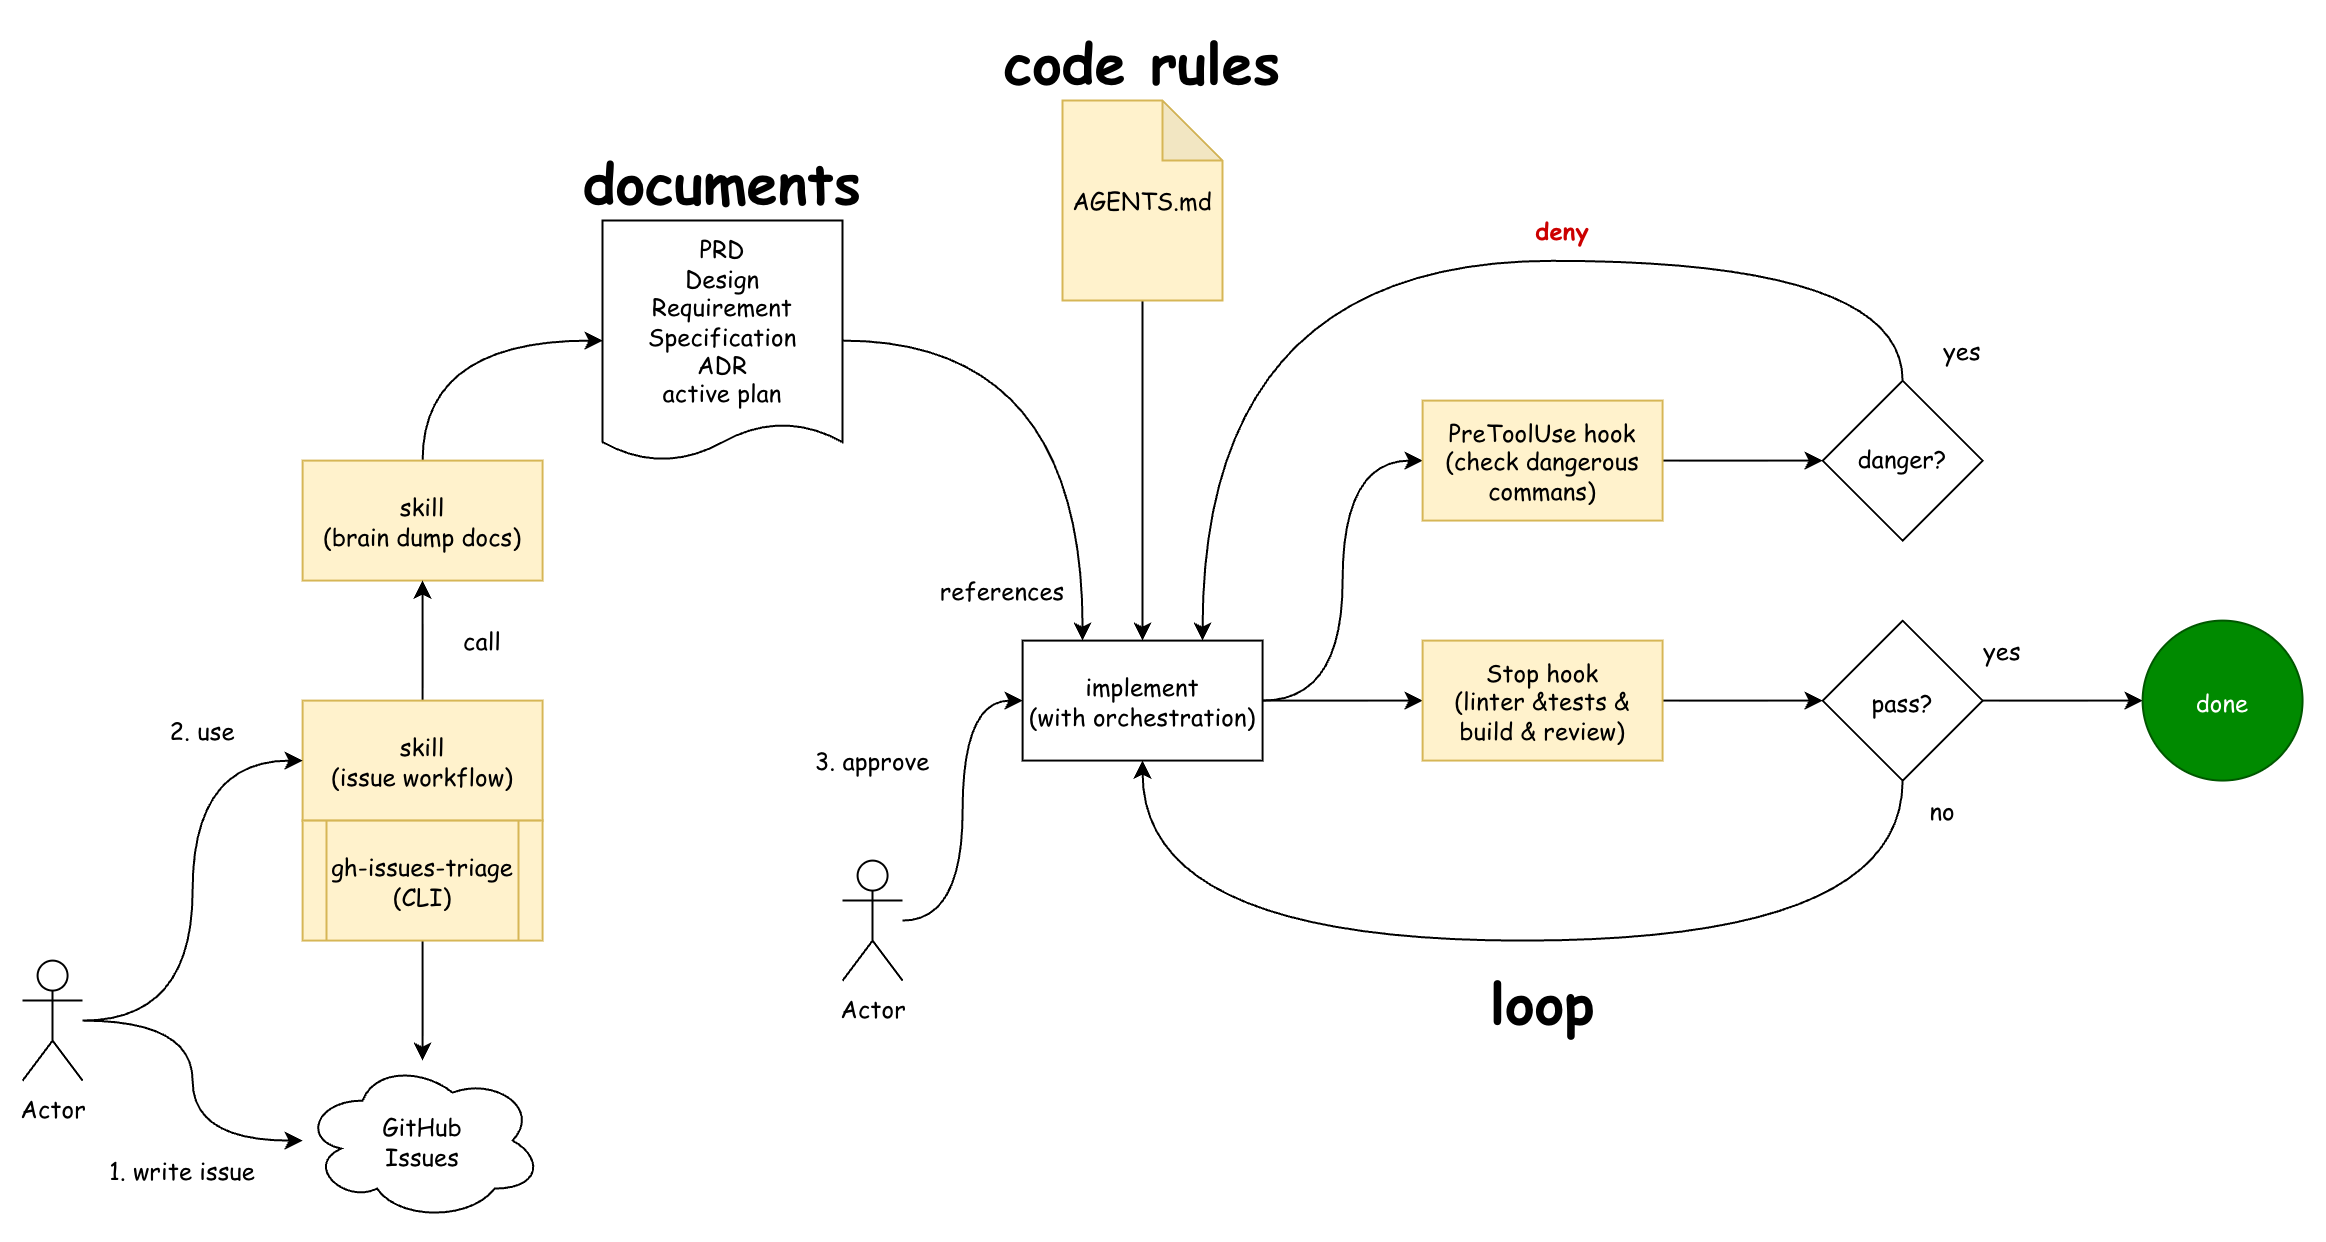
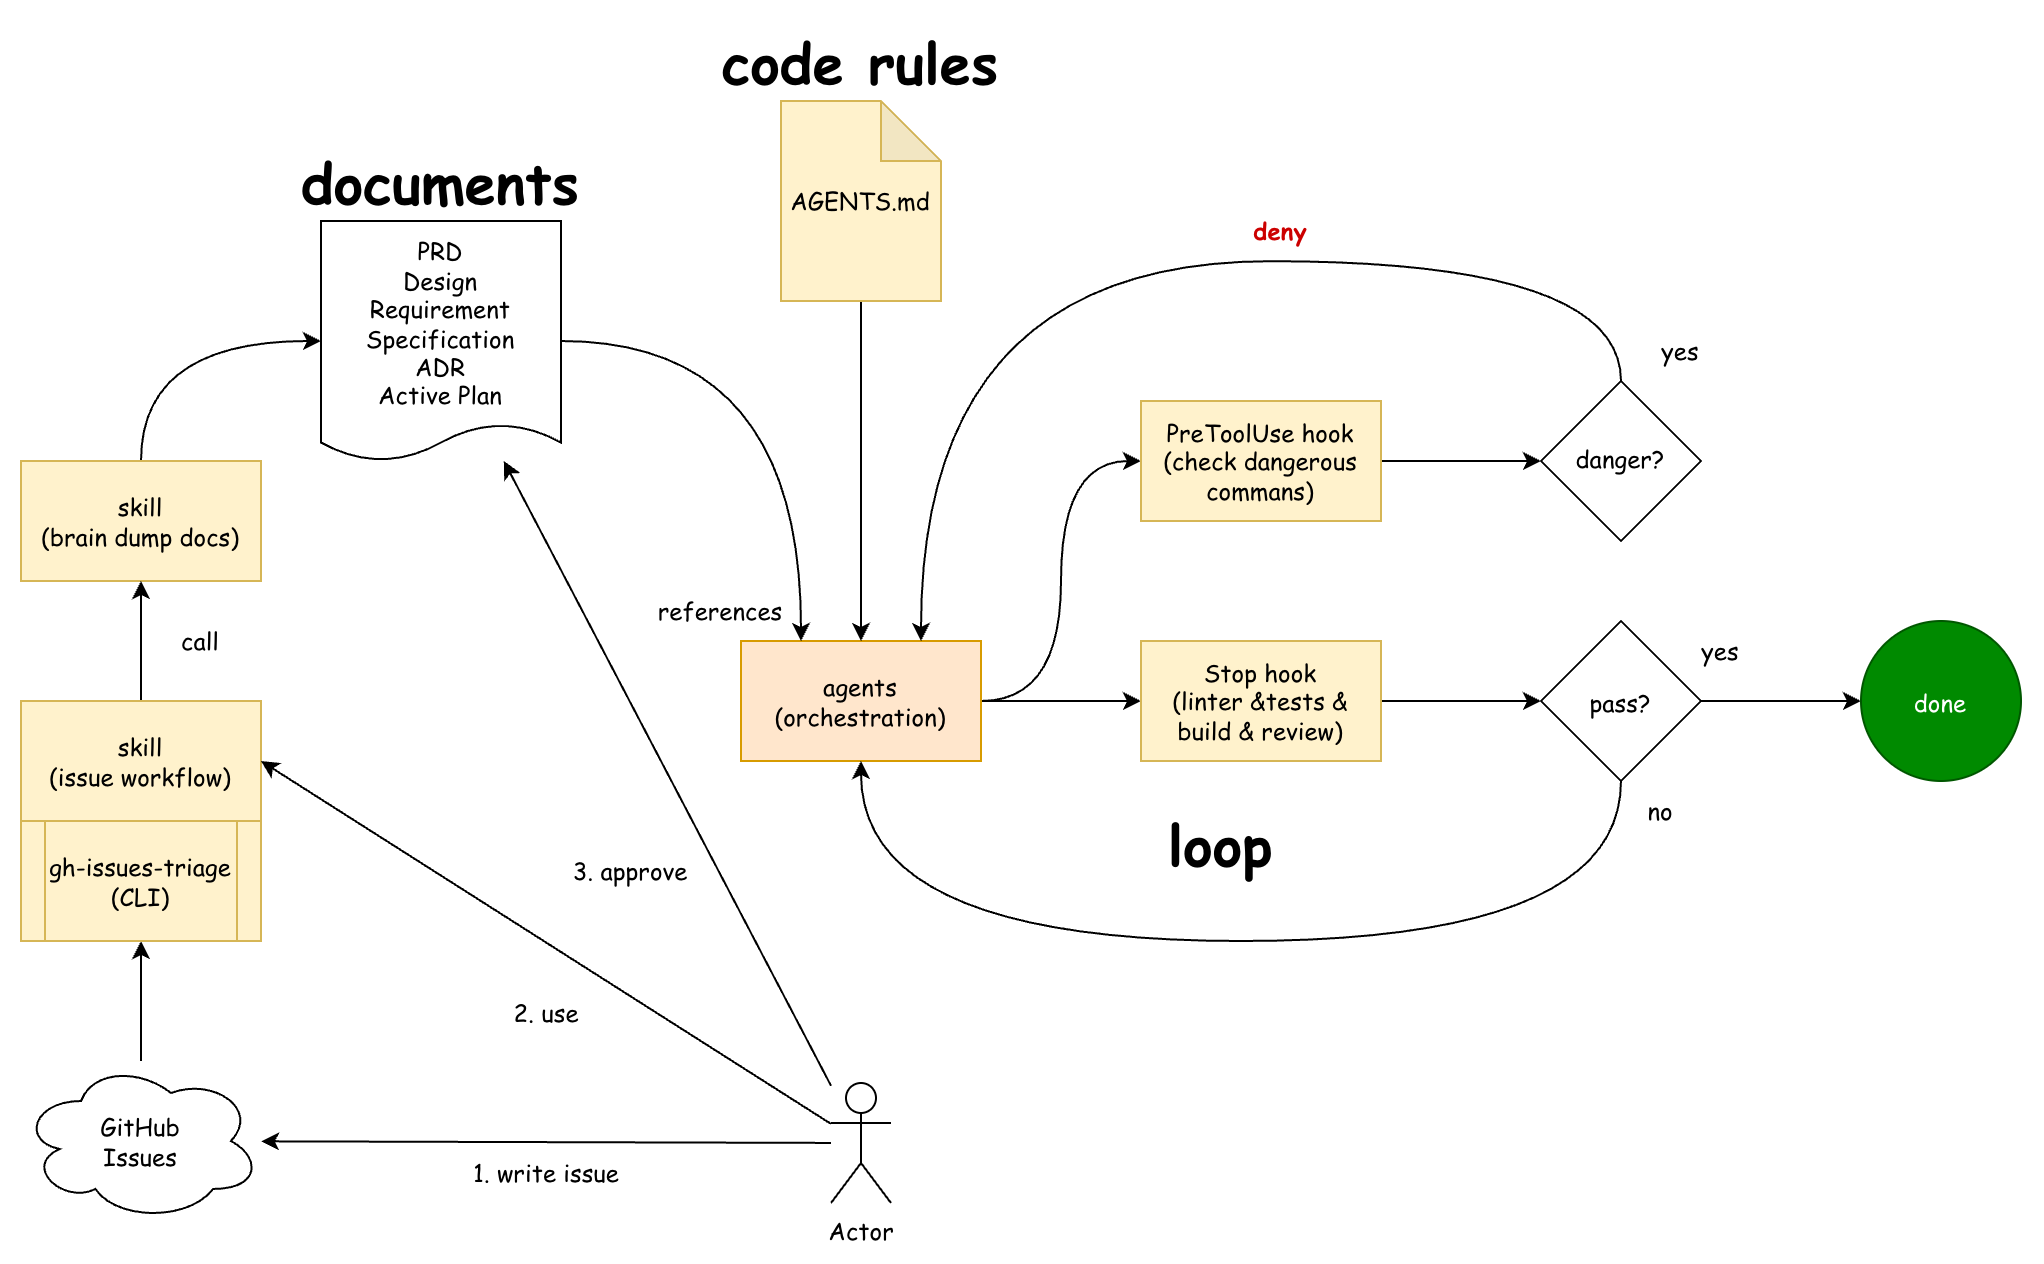
fix: README.md のオーケストレーション説明を修正し、エージェント画像を追加

diff --git a/README.md b/README.md
@@ -9,22 +9,9 @@
 
 ![Summary](./summary.png)
 
-ChatGPT Plus プランでは贅沢できないので、以下のように組んでます。`6.1-sol high` が設計・実装を担当し、`6.1-sol low` がコードベースの探索や Web 検索を担当します。実装後の検証で2回失敗した場合に `6-astra low` へ原因調査を委任します。
+ChatGPT Plus プランでは贅沢できないので、下記のようにオーケストレーションしています。`6.1-sol high` が設計・実装を担当し、`6.1-sol low` がコードベースの探索や Web 検索を担当します。実装後の検証で2回失敗した場合に `6-astra low` へ原因調査を委任します。
 
-```text
-┌──────────────────────────────┐
-│ gpt-6.1-sol high             │
-│ (orchestrator & implementer) │
-└────────┬─────────────────────┘
-         ├────────────────────┐
-         ▼                    ▼
-┌─────────────────┐  ┌─────────────────┐
-│ gpt-6.1-sol low │  │ gpt-6-astra low │
-│   (searcher)    │  │    (advisor)    │
-└─────────────────┘  └─────────────────┘
-```
-
-タスクの内容によりますがうちでは、1タスクあたり week limit を 1〜2% 使用します。
+![Agents](./agents.png)
 
 ## 導入方法
 
@@ -36,7 +23,6 @@ source /tmp/codex-installer-venv/bin/activate
 python3 -m pip install -r requirements.txt
 
 ./install.sh
-
 # 変更予定だけを確認する場合
 ./install.sh --dry-run
 ```
